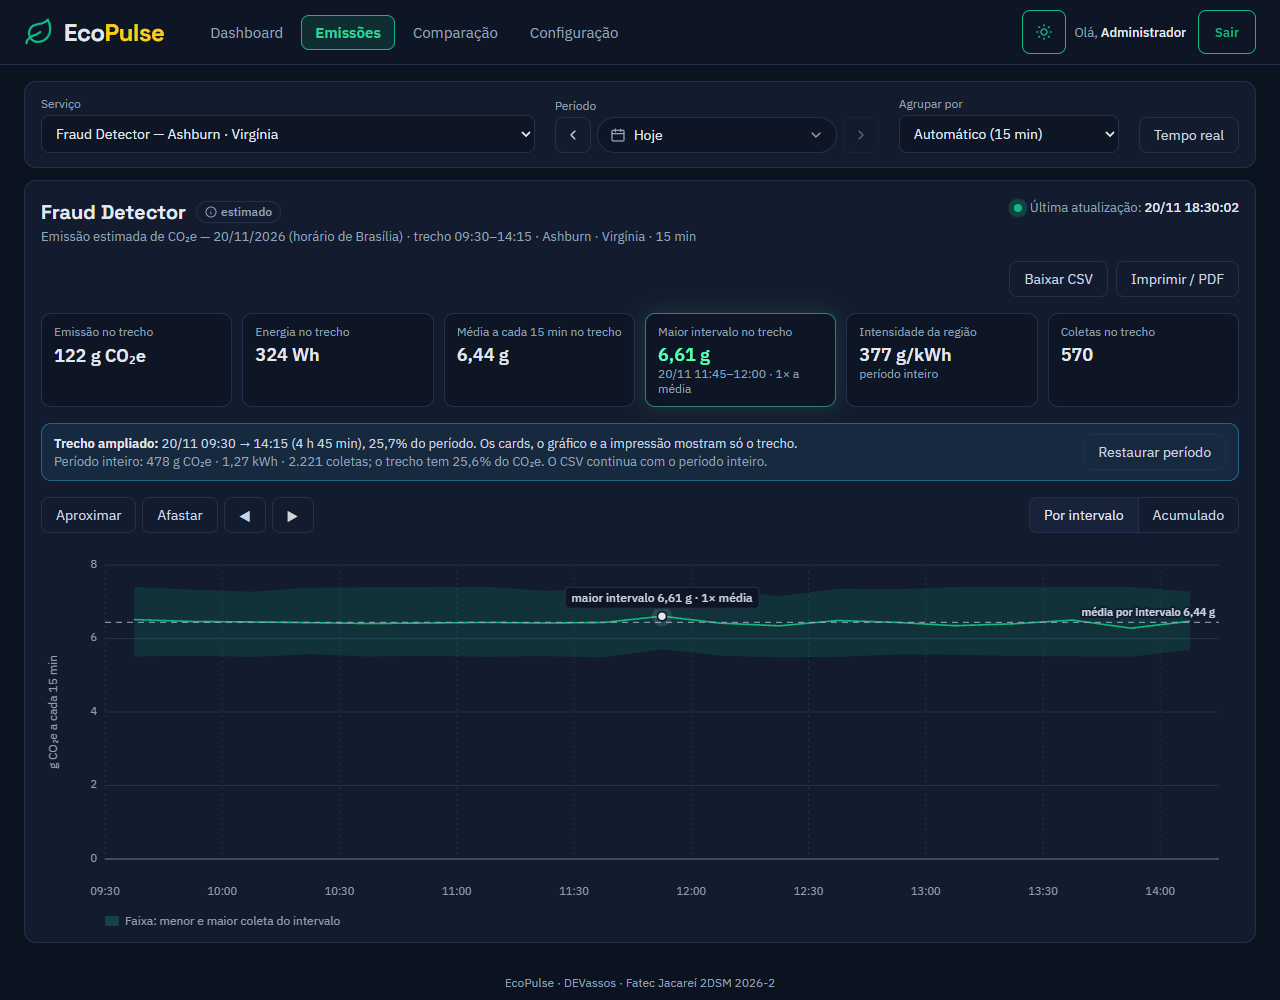
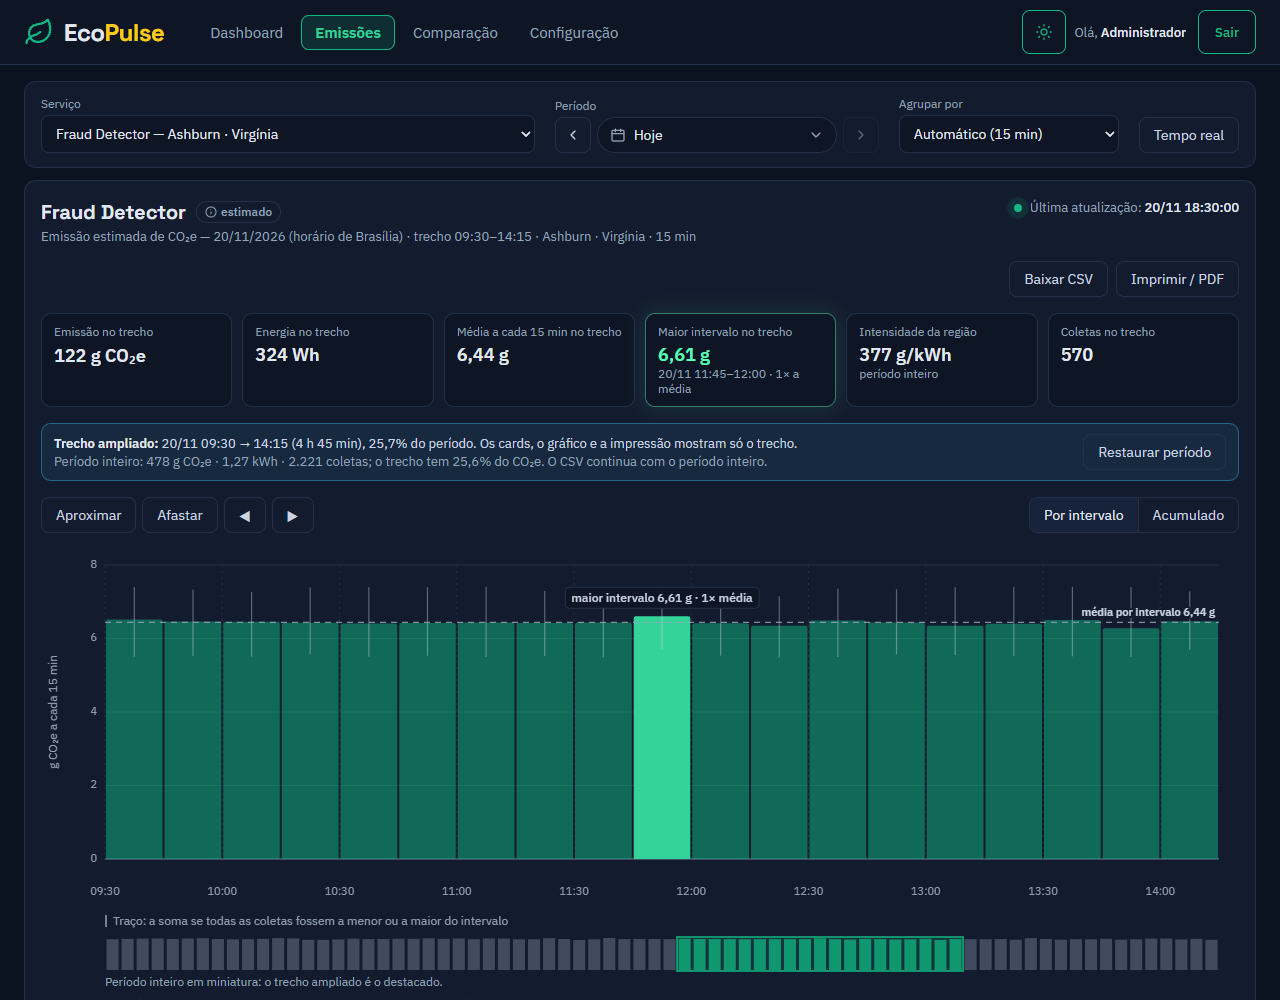
docs(docs): registra Emissões em barras no README com prints (#410)

Changed region(s): [[0.0625, 0.589, 0.9688, 0.868], [0.0625, 0.899, 0.9688, 0.992]]

diff --git a/README.md b/README.md
@@ -118,7 +118,7 @@ O desenvolvimento acontece na branch `develop`; cada funcionalidade entra nesta 
 
   _Janela do Checkout Worker em 22/10/2026, com o backend real (`docker compose`) e o cursor sobre uma coleta do gráfico._
 
-- **RF07, RF09, RF10 — Página Emissões (#190, PRs #200 e #216):** o item **Emissões** do menu abre `/emissoes`, com a emissão estimada de CO₂e e a energia de um serviço no período escolhido. O período se escolhe numa pílula com ‹ ›, atalhos (Hoje, Ontem, Últimos 7 e 30 dias) e um calendário próprio, com as datas em DD/MM/AAAA (#273). O serviço e as datas ficam na URL, então o link abre no mesmo filtro. O agrupamento é automático pelo tamanho do período: cada coleta até 2 h (`GET /api/collections`), 15 min até 1 dia e 1 hora acima disso (`GET /api/collections/series`). O resumo mostra emissão, energia, média, pico (os mesmos do chip do gráfico, #271), com a etiqueta **estimado** e o método no tooltip (#272), intensidade da região e coletas com falha, sem cálculo e tempo sem coleta. **Tempo real** busca de novo no intervalo do dashboard. Sem cálculo aparece "—", nunca zero, e numa falha o resumo fica apagado, com "Desatualizado desde …". O gráfico em SVG mostra a faixa da menor e da maior coleta, a média, o maior ponto com o chip "pico · N× média", os trechos sem coleta hachurados e as falhas (#272), e dá para alternar para o modo acumulado. A janela de detalhes do serviço leva direto à página. Como verificar em [frontend/README.md](frontend/README.md#página-emissões-190); print em [docs/img/sprint-2-emissoes.png](docs/img/sprint-2-emissoes.png).
+- **RF07, RF09, RF10 — Página Emissões (#190, PRs #200 e #216):** o item **Emissões** do menu abre `/emissoes`, com a emissão estimada de CO₂e e a energia de um serviço no período escolhido. O período se escolhe numa pílula com ‹ ›, atalhos (Hoje, Ontem, Últimos 7 e 30 dias) e um calendário próprio, com as datas em DD/MM/AAAA (#273). O serviço e as datas ficam na URL, então o link abre no mesmo filtro. O agrupamento é automático pelo tamanho do período: cada coleta até 2 h (`GET /api/collections`), 15 min até 1 dia e 1 hora acima disso (`GET /api/collections/series`). O resumo mostra emissão, energia, média, pico (os mesmos do chip do gráfico, #271), com a etiqueta **estimado** e o método no tooltip (#272), intensidade da região e coletas com falha, sem cálculo e tempo sem coleta. **Tempo real** busca de novo no intervalo do dashboard. Sem cálculo aparece "—", nunca zero, e numa falha o resumo fica apagado, com "Desatualizado desde …". O gráfico em SVG, em barras por intervalo (#410), mostra o traço da menor e da maior coleta, a média, a maior barra com o chip "pico · N× média", os trechos sem coleta hachurados e as falhas (#272), e dá para alternar para o modo acumulado. A janela de detalhes do serviço leva direto à página. Como verificar em [frontend/README.md](frontend/README.md#página-emissões-190); print em [docs/img/sprint-2-emissoes.png](docs/img/sprint-2-emissoes.png).
 
 - **RF15 — Comparação entre serviços (#193, PR #214; #194, PR #219; #218):** o item **Comparação** do menu abre `/comparacao`, com 2 a 10 serviços lado a lado no mesmo período (até 31 dias): coletas, médias de CPU, memória, disco e rede, e energia e CO₂e somados, por `GET /api/services/compare`. O menor e o maior CO₂e ficam destacados, o período aparece acima da tabela, e serviço sem coletas aparece como "sem coletas", nunca zero. Abaixo da tabela, barras de energia e de CO₂e por serviço, cada grandeza na sua escala, com os mesmos valores e destaques. Serviços e datas ficam na URL, e o período usa o mesmo seletor de Emissões (#273). A matriz abre pelo impacto — energia, a intensidade da região (CO₂e ÷ energia) e o CO₂e —, e as métricas coletadas ficam no bloco **Detalhe das métricas** (#328, PR #377): o serviço de menor CO₂e diz no destaque se a diferença vem de **matriz mais limpa** ou de **menor consumo**, e uma barra de potência média por recurso mostra quantos watts e que parcela do total cada um dos quatro recursos responde em cada serviço, com tabela alternativa e "sem dado no período" quando falta alguma das quatro médias. Print em [docs/img/sprint-3-comparacao.png](docs/img/sprint-3-comparacao.png). Como verificar em [frontend/README.md](frontend/README.md#comparação-entre-serviços-194).
 
@@ -183,13 +183,19 @@ O desenvolvimento acontece na branch `develop`; cada funcionalidade entra nesta 
 
   ![Emissões com um trecho de 4 h 45 min ampliado e os cards no trecho](docs/img/sprint-3-emissoes-zoom.png)
 
-  _Página Emissões com o backend falso (`npm run mock`), em 1280 px, com o relógio do navegador em 20/11/2026 18:30 (para o "Hoje" ter 18 h 30 min de coletas): Fraud Detector depois de dois **Aproximar** e um **▶**. Os cards dizem "no trecho" (122 g de CO₂e, 324 Wh, 570 coletas), a faixa mostra o trecho 09:30 → 14:15 e os totais do período inteiro (478 g, 1,27 kWh, 2.221 coletas), e o gráfico vai de 09:30 a 14:15._
+  _Página Emissões com o backend falso (`npm run mock`), em 1280 px, com o relógio do navegador em 20/11/2026 18:30 (para o "Hoje" ter 18 h 30 min de coletas): Fraud Detector depois de dois **Aproximar** e um **▶**. Os cards dizem "no trecho" (122 g de CO₂e, 324 Wh, 570 coletas), a faixa mostra o trecho 09:30 → 14:15 e os totais do período inteiro (478 g, 1,27 kWh, 2.221 coletas), e o gráfico vai de 09:30 a 14:15. Print refeito na #410, com as barras e a miniatura do período._
 
 - **RF10, RNF01 — Zoom por arrasto no gráfico de Emissões (#397):** com o mouse, arrastar sobre o gráfico mostra uma faixa com o início, o fim e a duração do trecho e, ao soltar, amplia esse trecho como os botões do #396; duplo clique ou **Esc** voltam ao período inteiro, e um clique simples continua abrindo só a dica do ponto. No toque, o arrasto segue percorrendo os pontos e o zoom fica nos botões ([detalhes](frontend/README.md#página-emissões-190)).
 
   ![Faixa do arrasto sobre o gráfico de Emissões, das 12:00 às 16:00](docs/img/sprint-3-emissoes-arrasto.png)
 
-  _Página Emissões com o backend falso (`npm run mock`), em 1280 px, com o relógio do navegador em 20/11/2026 18:30: Fraud Detector, "Hoje", durante o arrasto das 12:00 às 16:00; a faixa azul diz "20/11 12:00 → 16:00 (4 h)", e a dica do ponto fica escondida até soltar._
+  _Página Emissões com o backend falso (`npm run mock`), em 1280 px, com o relógio do navegador em 20/11/2026 18:30: Fraud Detector, "Hoje", durante o arrasto das 12:00 às 16:00; a faixa azul diz "20/11 12:00 → 16:00 (4 h)", e a dica do ponto fica escondida até soltar. Print refeito na #410, com as barras._
+
+- **RF10, RNF01 — Emissões em barras, com a miniatura do período no zoom (#410):** em **Por intervalo** (e **Por coleta**), o gráfico de Emissões passa de linha a barras: cada barra é a emissão daquele intervalo e ocupa o intervalo inteiro, a maior fica em tom cheio com o chip do pico, a do intervalo em andamento é vazada e tracejada (soma parcial, dito na legenda) e onde não há cálculo não há barra. A faixa da menor e da maior coleta vira um traço sobre a barra. O **Acumulado** continua em linha. Com um trecho ampliado, uma miniatura embaixo do gráfico mostra o período inteiro com o trecho destacado ([detalhes](frontend/README.md#página-emissões-190)).
+
+  ![Emissões de hoje em barras de 15 min, com a maior em tom cheio](docs/img/sprint-3-emissoes-barras.png)
+
+  _Página Emissões com o backend falso (`npm run mock`), em 1280 px, tema escuro, com o relógio do navegador em 20/11/2026 18:30: Fraud Detector, "Hoje", 74 intervalos completos de 15 min (478 g de CO₂e no período); a maior barra, de 08:15 a 08:30, com 6,67 g, em tom cheio, e o traço da menor e da maior coleta sobre cada barra. O intervalo das 18:30 acabou de começar e quase não aparece. A miniatura do período está no print do zoom, acima._
 
 - **RF07, DW05 — Equivalências do CO₂e no card de emissões (#333, PR #350):** abaixo do total de **Emissões no período**, o dashboard mostra a mesma conta em duas unidades do dia a dia — quilômetros de carro a gasolina e cargas de celular — com a etiqueta **ordem de grandeza** e os dois fatores, a fonte e a data de consulta no tooltip da linha. São dois algarismos significativos no padrão brasileiro; abaixo de 0,01 a unidade vira "< 0,01", nunca zero, e sem CO₂e calculado a linha não aparece. A conta é só de apresentação e não é gravada ([fatores, contas e exemplo em docs/calculos.md](docs/calculos.md#equivalências); [detalhes em frontend/README.md](frontend/README.md#indicadores-agregados-rf08)).
 
